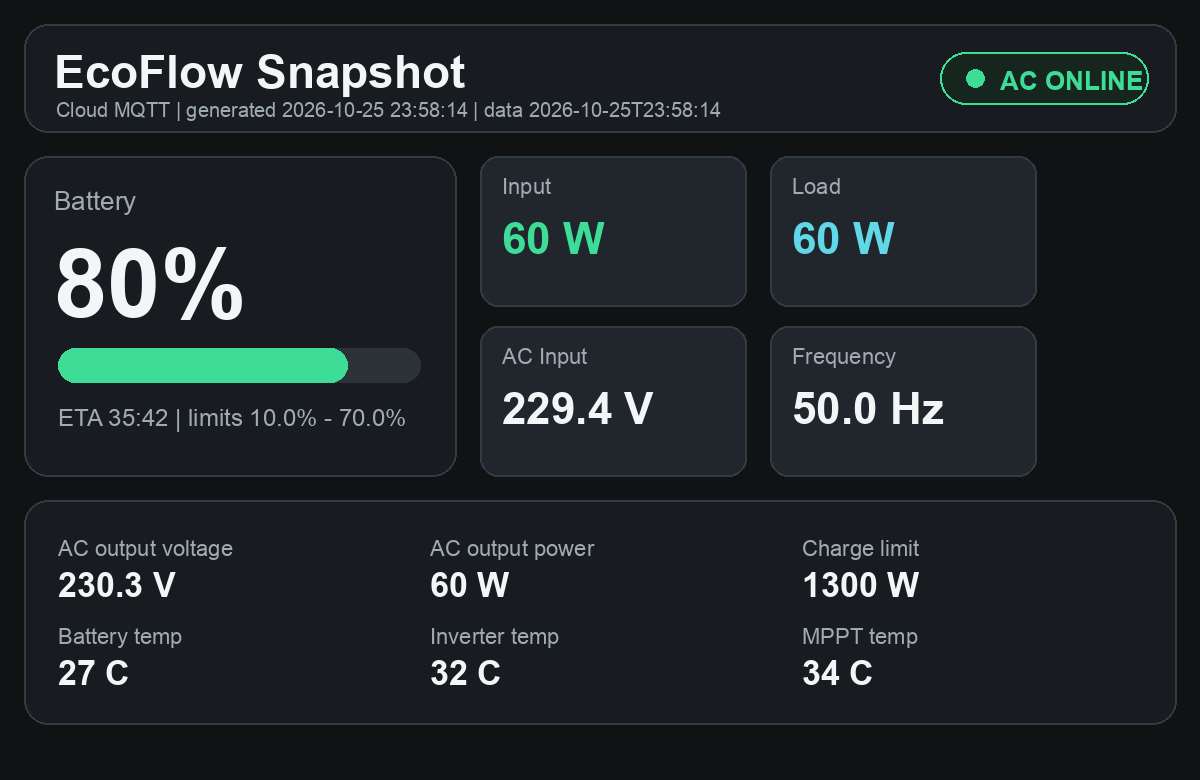
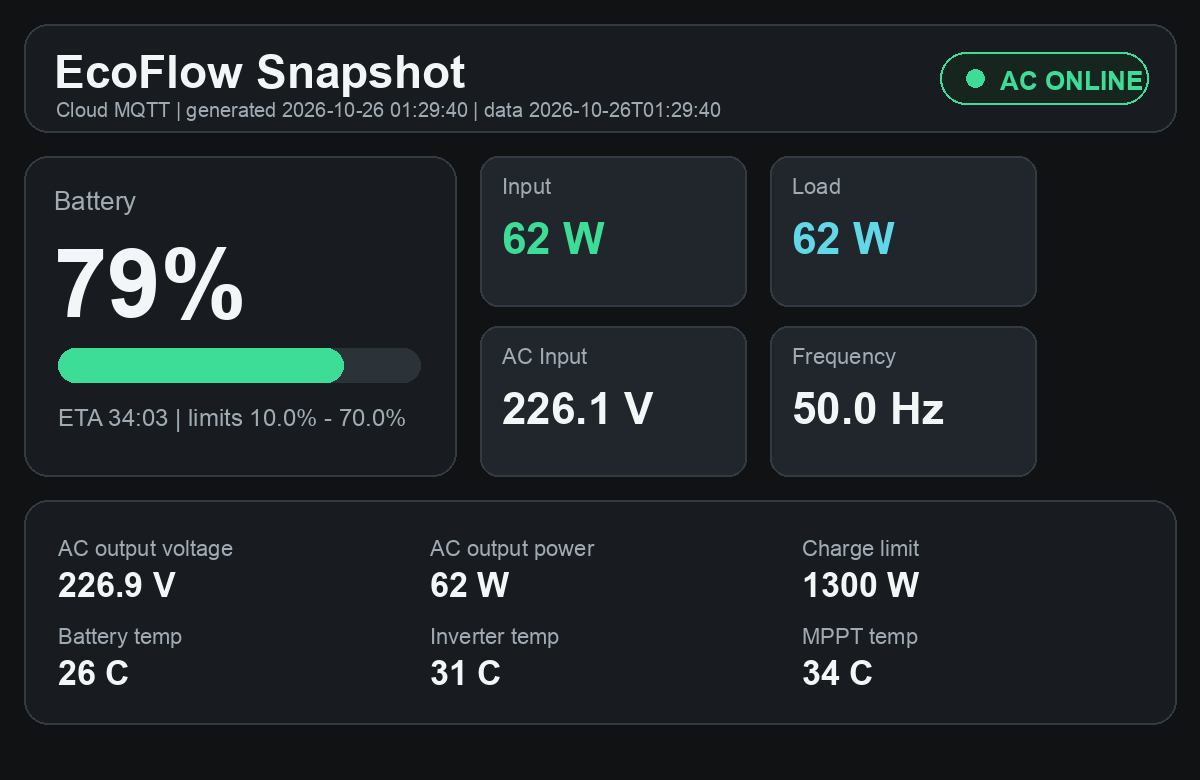
Update EcoFlow dashboard 2026-10-26 01:29:41

diff --git a/index.html b/index.html
@@ -75,7 +75,7 @@
       overflow: hidden;
       margin-top: 14px;
     }
-    .fill { width: 80%; height: 100%; background: linear-gradient(90deg, var(--green), var(--cyan)); }
+    .fill { width: 79%; height: 100%; background: linear-gradient(90deg, var(--green), var(--cyan)); }
     .cards {
       display: grid;
       grid-template-columns: repeat(4, minmax(0, 1fr));
@@ -177,7 +177,7 @@
   <header>
     <div>
       <h1>EcoFlow Snapshot</h1>
-      <div class="sub">Cloud MQTT · generated 2026-10-25T23:58:14 · data 2026-10-25T23:58:14</div>
+      <div class="sub">Cloud MQTT · generated 2026-10-26T01:29:40 · data 2026-10-26T01:29:40</div>
     </div>
     <div class="status online"><span class="dot"></span><span>AC online</span></div>
   </header>
@@ -187,24 +187,24 @@
   <div class="grid">
     <section>
       <h2>Battery</h2>
-      <div class="value">80%</div>
+      <div class="value">79%</div>
       <div class="battery"><div class="fill"></div></div>
-      <div class="row"><span>ETA</span><span>35:42</span></div>
+      <div class="row"><span>ETA</span><span>34:03</span></div>
       <div class="row"><span>SOC limits</span><span>10.0% - 70.0%</span></div>
     </section>
     <section>
       <h2>AC</h2>
-      <div class="row"><span>Input voltage</span><span>229.4 V</span></div>
+      <div class="row"><span>Input voltage</span><span>226.1 V</span></div>
       <div class="row"><span>Input frequency</span><span>50.0 Hz</span></div>
-      <div class="row"><span>Output voltage</span><span>230.3 V</span></div>
+      <div class="row"><span>Output voltage</span><span>226.9 V</span></div>
     </section>
   </div>
 
   <div class="cards">
-    <div class="card"><span class="label">Input</span><span class="value">60 W</span></div>
-    <div class="card"><span class="label">Load</span><span class="value">60 W</span></div>
-    <div class="card"><span class="label">Battery temp</span><span class="value">27°C</span></div>
-    <div class="card"><span class="label">Inverter temp</span><span class="value">32°C</span></div>
+    <div class="card"><span class="label">Input</span><span class="value">62 W</span></div>
+    <div class="card"><span class="label">Load</span><span class="value">62 W</span></div>
+    <div class="card"><span class="label">Battery temp</span><span class="value">26°C</span></div>
+    <div class="card"><span class="label">Inverter temp</span><span class="value">31°C</span></div>
   </div>
 
   
@@ -217,8 +217,8 @@
         <div class="daily-item"><span class="label">Зарядний ліміт</span><strong>1300 W</strong><small>пік входу 589 W · 45% ліміту</small></div>
         <div class="daily-item"><span class="label">Заряджання</span><strong>0 сек</strong><small>--</small></div>
         <div class="daily-item"><span class="label">Розряджання</span><strong>0 сек</strong><small>--</small></div>
-        <div class="daily-item"><span class="label">Енергія вхід / вихід</span><strong>1.1 kWh / 1.1 kWh</strong><small>оцінка за sample-ами</small></div>
-        <div class="daily-item"><span class="label">Частота min / max</span><strong>50.0 Hz / 50.0 Hz</strong><small>25.10 01:16 / 25.10 01:16</small></div>
+        <div class="daily-item"><span class="label">Енергія вхід / вихід</span><strong>1.0 kWh / 1.0 kWh</strong><small>оцінка за sample-ами</small></div>
+        <div class="daily-item"><span class="label">Частота min / max</span><strong>50.0 Hz / 50.0 Hz</strong><small>25.10 02:56 / 25.10 02:56</small></div>
       </div>
     </section>
     
@@ -249,28 +249,28 @@
   &quot;ok&quot;: true,
   &quot;source&quot;: &quot;Cloud MQTT&quot;,
   &quot;device&quot;: &quot;DELTA Pro&quot;,
-  &quot;timestamp&quot;: &quot;2026-10-25T23:58:14&quot;,
+  &quot;timestamp&quot;: &quot;2026-10-26T01:29:40&quot;,
   &quot;grid&quot;: true,
   &quot;battery&quot;: {
-    &quot;soc&quot;: 80,
+    &quot;soc&quot;: 79,
     &quot;min&quot;: 10.0,
     &quot;max&quot;: 70.0,
-    &quot;eta&quot;: &quot;35:42&quot;
+    &quot;eta&quot;: &quot;34:03&quot;
   },
   &quot;power&quot;: {
-    &quot;in&quot;: 60,
-    &quot;out&quot;: 60,
-    &quot;acOut&quot;: 60,
+    &quot;in&quot;: 62,
+    &quot;out&quot;: 62,
+    &quot;acOut&quot;: 62,
     &quot;chargeLimit&quot;: 1300
   },
   &quot;ac&quot;: {
-    &quot;inputVoltage&quot;: 229.423,
+    &quot;inputVoltage&quot;: 226.084,
     &quot;inputFreq&quot;: 50.0,
-    &quot;outputVoltage&quot;: 230.254
+    &quot;outputVoltage&quot;: 226.9
   },
   &quot;temps&quot;: {
-    &quot;battery&quot;: 27,
-    &quot;inverter&quot;: 32,
+    &quot;battery&quot;: 26,
+    &quot;inverter&quot;: 31,
     &quot;mppt&quot;: 34
   },
   &quot;history&quot;: [
@@ -391,16 +391,16 @@
   ],
   &quot;telemetry&quot;: {
     &quot;window&quot;: &quot;24h&quot;,
-    &quot;sample_count&quot;: 120,
-    &quot;from&quot;: &quot;2026-10-25T01:16:24&quot;,
-    &quot;to&quot;: &quot;2026-10-25T23:58:14&quot;,
+    &quot;sample_count&quot;: 119,
+    &quot;from&quot;: &quot;2026-10-25T02:56:58&quot;,
+    &quot;to&quot;: &quot;2026-10-26T01:29:40&quot;,
     &quot;latest&quot;: {
       &quot;mode&quot;: &quot;idle&quot;,
       &quot;grid&quot;: true,
-      &quot;soc&quot;: 80.0,
-      &quot;ac_v&quot;: 229.423,
-      &quot;in_w&quot;: 60.0,
-      &quot;out_w&quot;: 60.0,
+      &quot;soc&quot;: 79.0,
+      &quot;ac_v&quot;: 226.084,
+      &quot;in_w&quot;: 62.0,
+      &quot;out_w&quot;: 62.0,
       &quot;charge_limit_w&quot;: 1300.0
     },
     &quot;voltage&quot;: {
@@ -414,11 +414,11 @@
       },
       &quot;frequency_min&quot;: {
         &quot;value&quot;: 50.0,
-        &quot;ts&quot;: &quot;2026-10-25T01:16:24&quot;
+        &quot;ts&quot;: &quot;2026-10-25T02:56:58&quot;
       },
       &quot;frequency_max&quot;: {
         &quot;value&quot;: 50.0,
-        &quot;ts&quot;: &quot;2026-10-25T01:16:24&quot;
+        &quot;ts&quot;: &quot;2026-10-25T02:56:58&quot;
       }
     },
     &quot;soc&quot;: {
@@ -446,16 +446,16 @@
       },
       &quot;charge_limit_w&quot;: 1300.0,
       &quot;max_input_pct_of_current_limit&quot;: 45,
-      &quot;input_wh_est&quot;: 1072.2,
-      &quot;load_wh_est&quot;: 1072.2
+      &quot;input_wh_est&quot;: 1041.8,
+      &quot;load_wh_est&quot;: 1041.8
     },
     &quot;modes&quot;: {
       &quot;charging_sec&quot;: 0,
       &quot;discharging_sec&quot;: 0,
-      &quot;idle_sec&quot;: 10420,
+      &quot;idle_sec&quot;: 10240,
       &quot;charging&quot;: &quot;0 сек&quot;,
       &quot;discharging&quot;: &quot;0 сек&quot;,
-      &quot;idle&quot;: &quot;2 год 53 хв&quot;,
+      &quot;idle&quot;: &quot;2 год 50 хв&quot;,
       &quot;last_charging&quot;: null,
       &quot;last_discharging&quot;: null
     }
